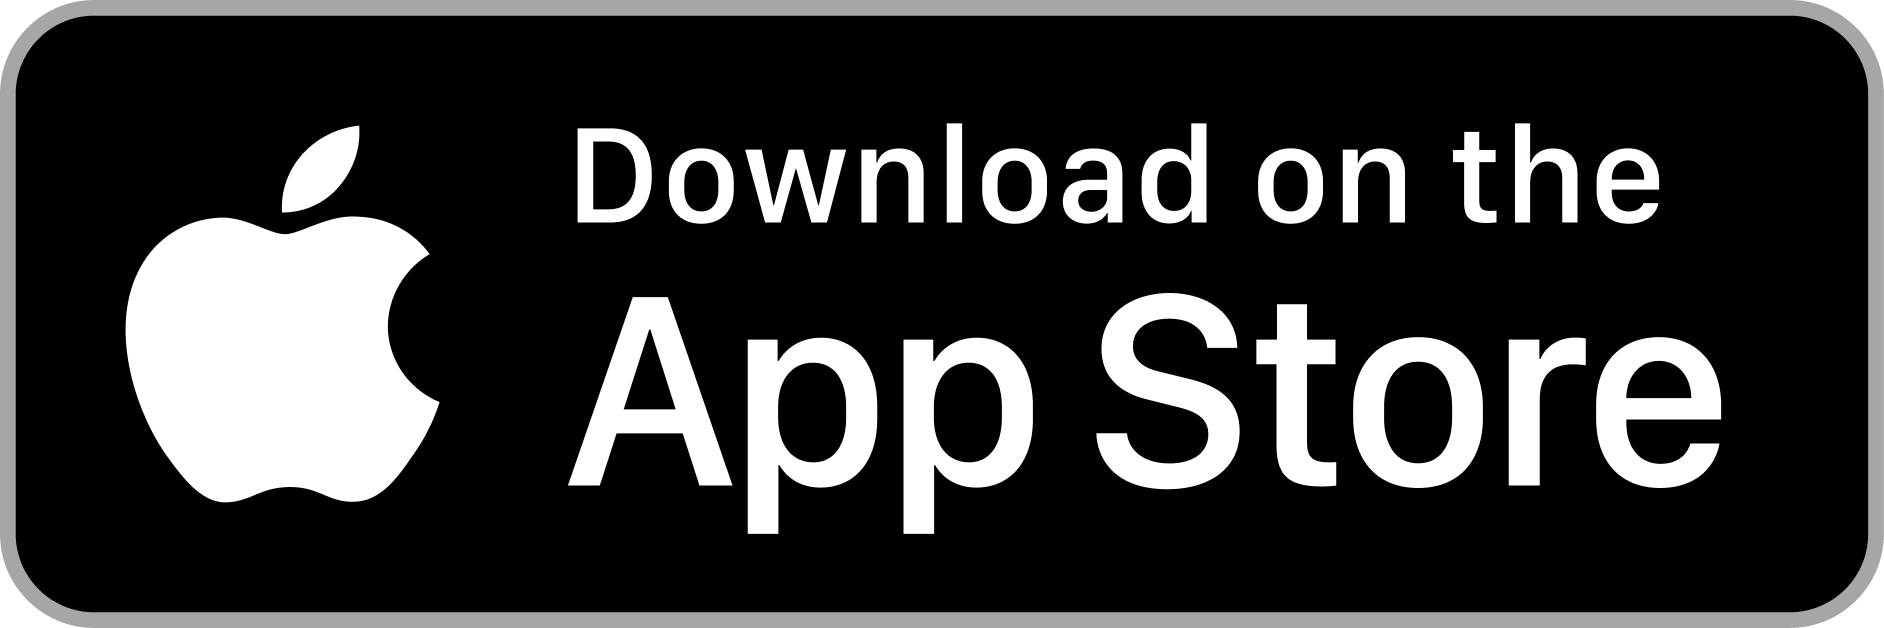
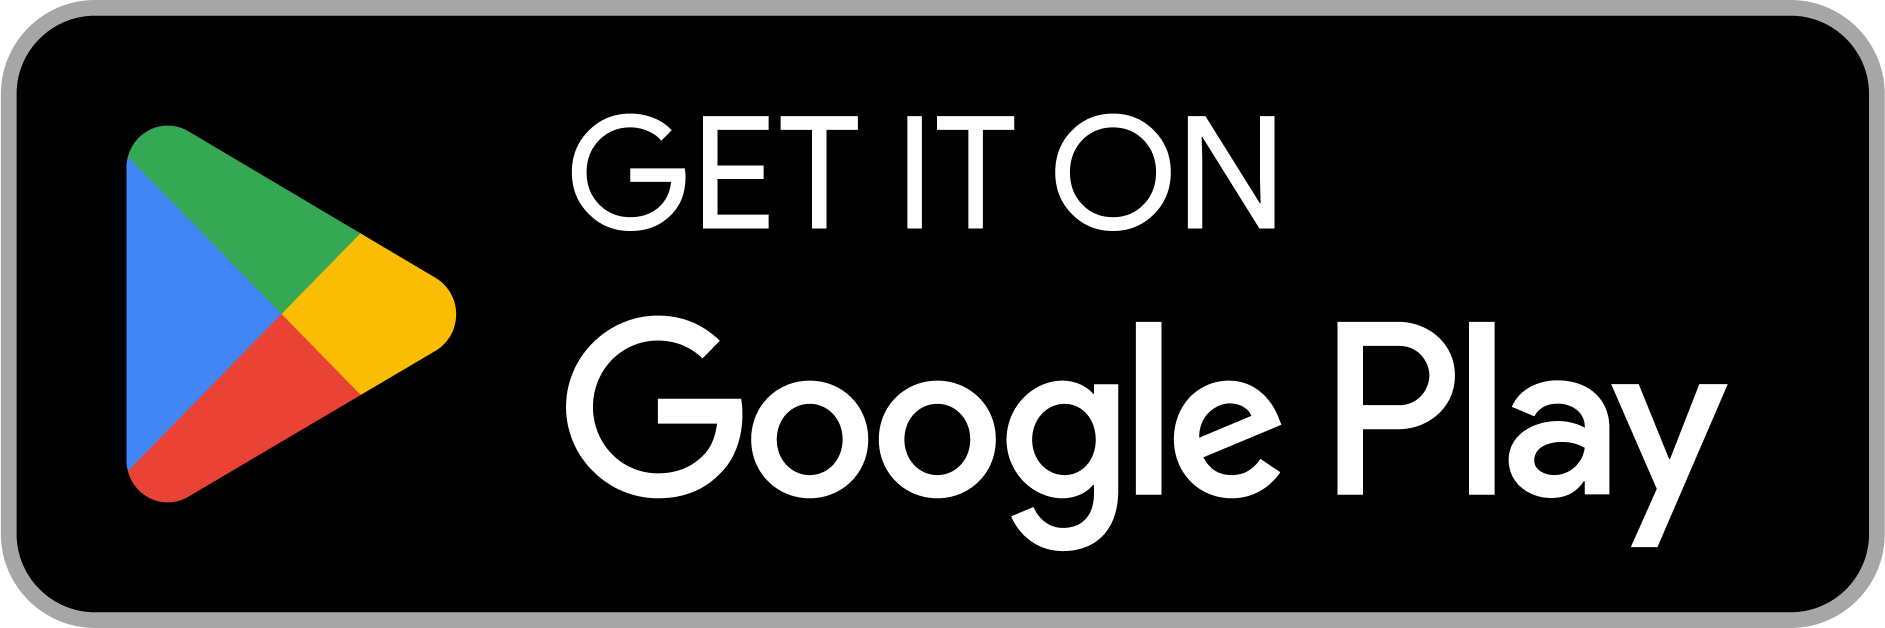
Add react-device-detect dependency, update download buttons with links, and enhance legal documentation with bus data source information.

Changed region(s): [[0.2771, 0.4538, 0.9236, 0.8774], [0.0616, 0.1815, 0.2463, 0.8169], [0.2771, 0.1815, 0.8928, 0.3631]]

diff --git a/app/page.tsx b/app/page.tsx
@@ -34,20 +34,34 @@ export default function Home() {
 
               {/* Download Buttons */}
               <div className="flex flex-col sm:flex-row gap-4 items-start mb-8">
-                <Image
-                  src="/app-store.png"
-                  alt="Download on the App Store"
-                  width={135}
-                  height={40}
-                  className="h-12 w-auto hover:opacity-80 transition-opacity cursor-pointer"
-                />
-                <Image
-                  src="/google-play.png"
-                  alt="Get it on Google Play"
-                  width={135}
-                  height={40}
-                  className="h-12 w-auto hover:opacity-80 transition-opacity cursor-pointer"
-                />
+                <a
+                  href="https://apps.apple.com/hk/app/hk-bus-time/id6749821674?platform=iphone"
+                  target="_blank"
+                  rel="noopener noreferrer"
+                  className="inline-block"
+                >
+                  <Image
+                    src="/app-store.png"
+                    alt="Download on the App Store"
+                    width={135}
+                    height={40}
+                    className="h-12 w-auto hover:opacity-80 transition-opacity cursor-pointer"
+                  />
+                </a>
+                <div className="relative inline-block">
+                  <Image
+                    src="/google-play.png"
+                    alt="Get it on Google Play"
+                    width={135}
+                    height={40}
+                    className="h-12 w-auto opacity-50 cursor-not-allowed"
+                  />
+                  <div className="absolute inset-0 flex items-center justify-center">
+                    <span className="text-xs font-medium text-gray-600 bg-white/90 px-2 py-1 rounded">
+                      Coming soon
+                    </span>
+                  </div>
+                </div>
               </div>
             </div>
 

diff --git a/legals/index.ts b/legals/index.ts
@@ -11,6 +11,7 @@ Welcome to HK Bus Time, a mobile application developed and owned by Tommy To, an
 
 ## 2. Service Availability and Third-Party Data
 - **Third-Party Services**: HK Bus Time relies on third-party services, including Google Maps Route API for route polylines, data.gov.hk for transportation data, and Firebase Analytics for usage analytics. We do not guarantee the accuracy, timeliness, or availability of data provided by these services.
+- **Bus Data Source**: This app uses data from HK Bus Crawling@2021, https://github.com/hkbus/hk-bus-crawling, which provides daily updated bus route, fare, and stop information across KMB, CTB, NLB, minibus, MTR, and light rail services in Hong Kong.
 - **Service Interruptions**: The App may be unavailable due to maintenance, technical issues, or disruptions in third-party services beyond our control.
 - **Disclaimer**: Tommy To is not responsible for any inaccuracies, delays, or errors in bus ETAs or route information, as these depend on third-party data sources.
 

diff --git a/app/download/page.tsx b/app/download/page.tsx
@@ -1,0 +1,31 @@
+"use client";
+
+import { useEffect } from "react";
+import { useRouter } from "next/navigation";
+import { isIOS } from "react-device-detect";
+
+export default function DownloadPage() {
+  const router = useRouter();
+
+  useEffect(() => {
+    // Check if device is iOS
+    if (isIOS) {
+      // Redirect to App Store for iOS devices
+      window.location.href =
+        "https://apps.apple.com/hk/app/hk-bus-time/id6749821674?platform=iphone";
+    } else {
+      // Redirect to home page for Android and other devices
+      router.push("/");
+    }
+  }, [router]);
+
+  // Show loading state while redirecting
+  return (
+    <div className="min-h-screen bg-gradient-to-br from-blue-50 to-indigo-100 flex items-center justify-center">
+      <div className="text-center">
+        <div className="animate-spin rounded-full h-12 w-12 border-b-2 border-blue-600 mx-auto mb-4"></div>
+        <p className="text-gray-600">Redirecting...</p>
+      </div>
+    </div>
+  );
+}
